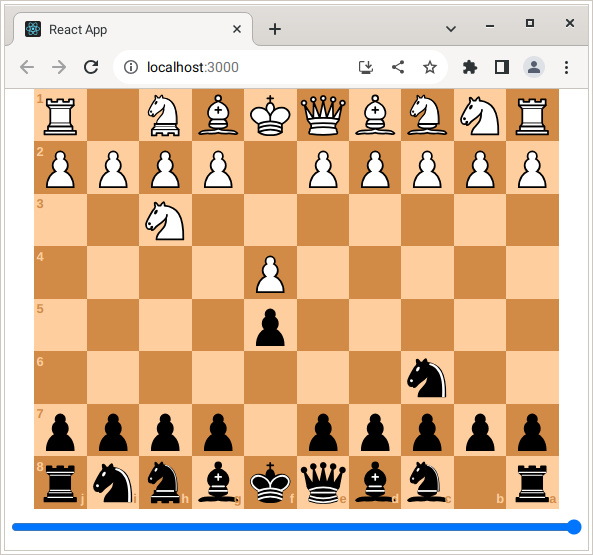
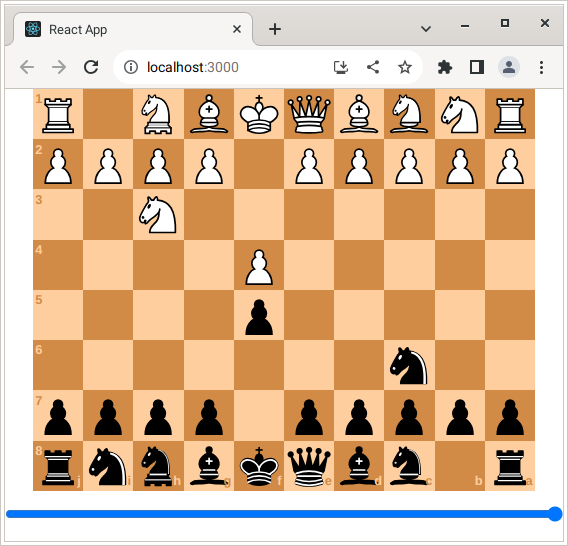
Refactored fen

diff --git a/src/index.js b/src/index.js
@@ -1,12 +1,7 @@
 import CapablancaSquares from './CapablancaSquares';
 import ClassicalSquares from './ClassicalSquares';
 
-export const CapablancaBoard = ({
-  stateBoard,
-  goBack,
-  filterMove,
-  handleMove
-}) => {
+export const CapablancaBoard = ({ stateBoard, filterMove, handleMove }) => {
   return (
     <CapablancaSquares
       stateBoard={{
@@ -18,19 +13,13 @@ export const CapablancaBoard = ({
           }
         }
       }}
-      goBack={goBack}
       filterMove={filterMove}
       handleMove={handleMove}
     />
   );
 }
 
-export const ClassicalBoard = ({
-  stateBoard,
-  goBack,
-  filterMove,
-  handleMove
-}) => {
+export const ClassicalBoard = ({ stateBoard, filterMove, handleMove }) => {
   return (
     <ClassicalSquares
       stateBoard={{
@@ -42,7 +31,6 @@ export const ClassicalBoard = ({
           }
         }
       }}
-      goBack={goBack}
       filterMove={filterMove}
       handleMove={handleMove}
     />

diff --git a/src/CapablancaSquares.js b/src/CapablancaSquares.js
@@ -4,7 +4,7 @@ import ResizeSlider from './ResizeSlider';
 import Squares from './Squares';
 import styles from './styles';
 
-const CapablancaSquares = ({ stateBoard, goBack, filterMove, handleMove }) => {
+const CapablancaSquares = ({ stateBoard, filterMove, handleMove }) => {
   const maxWidth = {
     900: useMediaQuery('(max-width:900px)'),
   };
@@ -25,7 +25,6 @@ const CapablancaSquares = ({ stateBoard, goBack, filterMove, handleMove }) => {
           },
         }}
         stateBoard={stateBoard}
-        goBack={goBack}
         filterMove={filterMove}
         handleMove={handleMove}
       />

diff --git a/src/ClassicalSquares.js b/src/ClassicalSquares.js
@@ -4,7 +4,7 @@ import ResizeSlider from './ResizeSlider';
 import Squares from './Squares';
 import styles from './styles';
 
-const ClassicalSquares = ({ stateBoard, goBack, filterMove, handleMove }) => {
+const ClassicalSquares = ({ stateBoard, filterMove, handleMove }) => {
   const maxWidth = {
     900: useMediaQuery('(max-width:900px)'),
   };
@@ -25,7 +25,6 @@ const ClassicalSquares = ({ stateBoard, goBack, filterMove, handleMove }) => {
           },
         }}
         stateBoard={stateBoard}
-        goBack={goBack}
         filterMove={filterMove}
         handleMove={handleMove}
       />

diff --git a/src/Squares.js b/src/Squares.js
@@ -6,12 +6,11 @@ import styles from './styles';
 const Squares = ({
   style,
   stateBoard,
-  goBack,
   filterMove,
   handleMove
 }) => {
   const sqs = () => {
-    const fen = stateBoard.fen[stateBoard.fen.length - 1 + goBack].split(' ');
+    const fen = stateBoard.fen.split(' ');
 
     const ascii = Ascii.toAscii(fen[0]);
 

diff --git a/README.md b/README.md
@@ -26,18 +26,7 @@ function App() {
     isCheck: false,
     isMate: false,
     isStalemate: false,
-    fen: [
-      'rnbqkbnr/pppppppp/8/8/8/8/PPPPPPPP/RNBQKBNR w KQkq -',
-      'rnbqkbnr/pppppppp/8/8/3P4/8/PPP1PPPP/RNBQKBNR b KQkq d3',
-      'rnbqkb1r/pppppppp/5n2/8/3P4/8/PPP1PPPP/RNBQKBNR w KQkq -',
-      'rnbqkb1r/pppppppp/5n2/8/2PP4/8/PP2PPPP/RNBQKBNR b KQkq c3',
-      'rnbqkb1r/pppp1ppp/4pn2/8/2PP4/8/PP2PPPP/RNBQKBNR w KQkq -',
-      'rnbqkb1r/pppp1ppp/4pn2/8/2PP4/2N5/PP2PPPP/R1BQKBNR b KQkq -',
-      'rnbqk2r/pppp1ppp/4pn2/8/1bPP4/2N5/PP2PPPP/R1BQKBNR w KQkq -',
-      'rnbqk2r/pppp1ppp/4pn2/8/1bPP4/2N1P3/PP3PPP/R1BQKBNR b KQkq -',
-      'rnbq1rk1/pppp1ppp/4pn2/8/1bPP4/2N1P3/PP3PPP/R1BQKBNR w KQ -',
-      'rnbq1rk1/pppp1ppp/4pn2/8/1bPP4/2N1PN2/PP3PPP/R1BQKB1R b KQ -',
-    ],
+    fen: 'rnbq1rk1/pppp1ppp/4pn2/8/1bPP4/2N1PN2/PP3PPP/R1BQKB1R b KQ -',
     flip: 'w',
   };
 
@@ -52,7 +41,6 @@ function App() {
   return (
     <ClassicalBoard
       stateBoard={stateBoard}
-      goBack={-5}
       filterMove={filterMove}
       handleMove={handleMove}
     />
@@ -76,13 +64,7 @@ function App() {
     isCheck: false,
     isMate: false,
     isStalemate: false,
-    fen: [
-      'rnabqkbcnr/pppppppppp/10/10/10/10/PPPPPPPPPP/RNABQKBCNR w KQkq -',
-      'rnabqkbcnr/pppppppppp/10/10/5P4/10/PPPPP1PPPP/RNABQKBCNR b KQkq f3',
-      'rnabqkbcnr/ppppp1pppp/10/5p4/5P4/10/PPPPP1PPPP/RNABQKBCNR w KQkq f6',
-      'rnabqkbcnr/ppppp1pppp/10/5p4/5P4/7N2/PPPPP1PPPP/RNABQKBC1R b KQkq -',
-      'r1abqkbcnr/ppppp1pppp/2n7/5p4/5P4/7N2/PPPPP1PPPP/RNABQKBC1R w KQkq -',
-    ],
+    fen: 'r1abqkbcnr/ppppp1pppp/2n7/5p4/5P4/7N2/PPPPP1PPPP/RNABQKBC1R w KQkq -',
     flip: 'b',
   };
 
@@ -97,7 +79,6 @@ function App() {
   return (
     <CapablancaBoard
       stateBoard={stateBoard}
-      goBack={0}
       filterMove={filterMove}
       handleMove={handleMove}
     />
